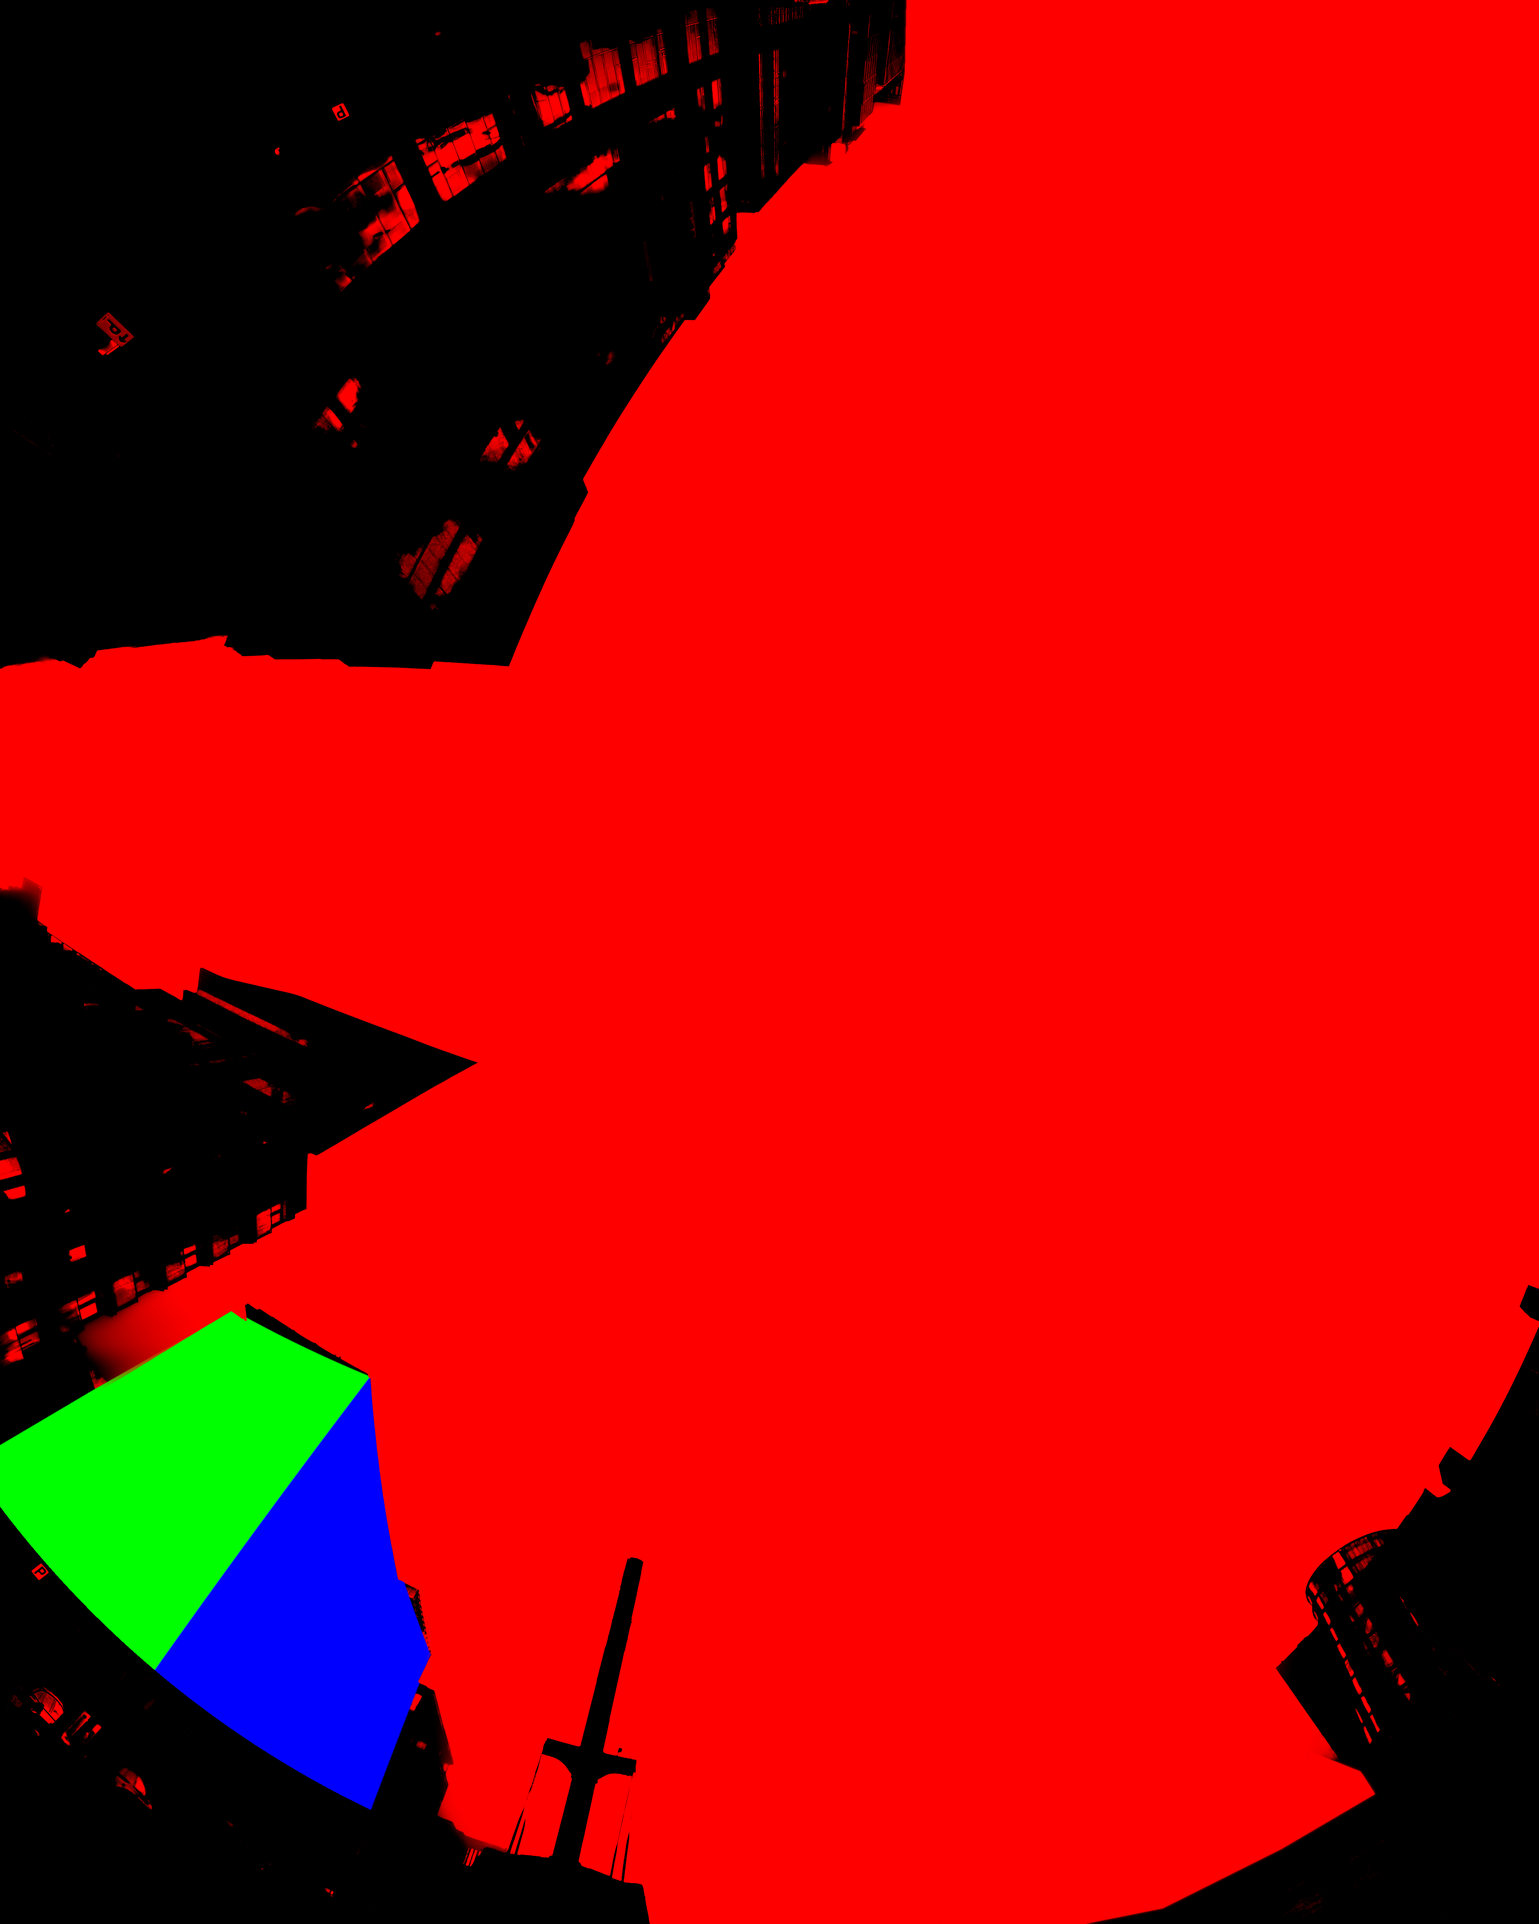
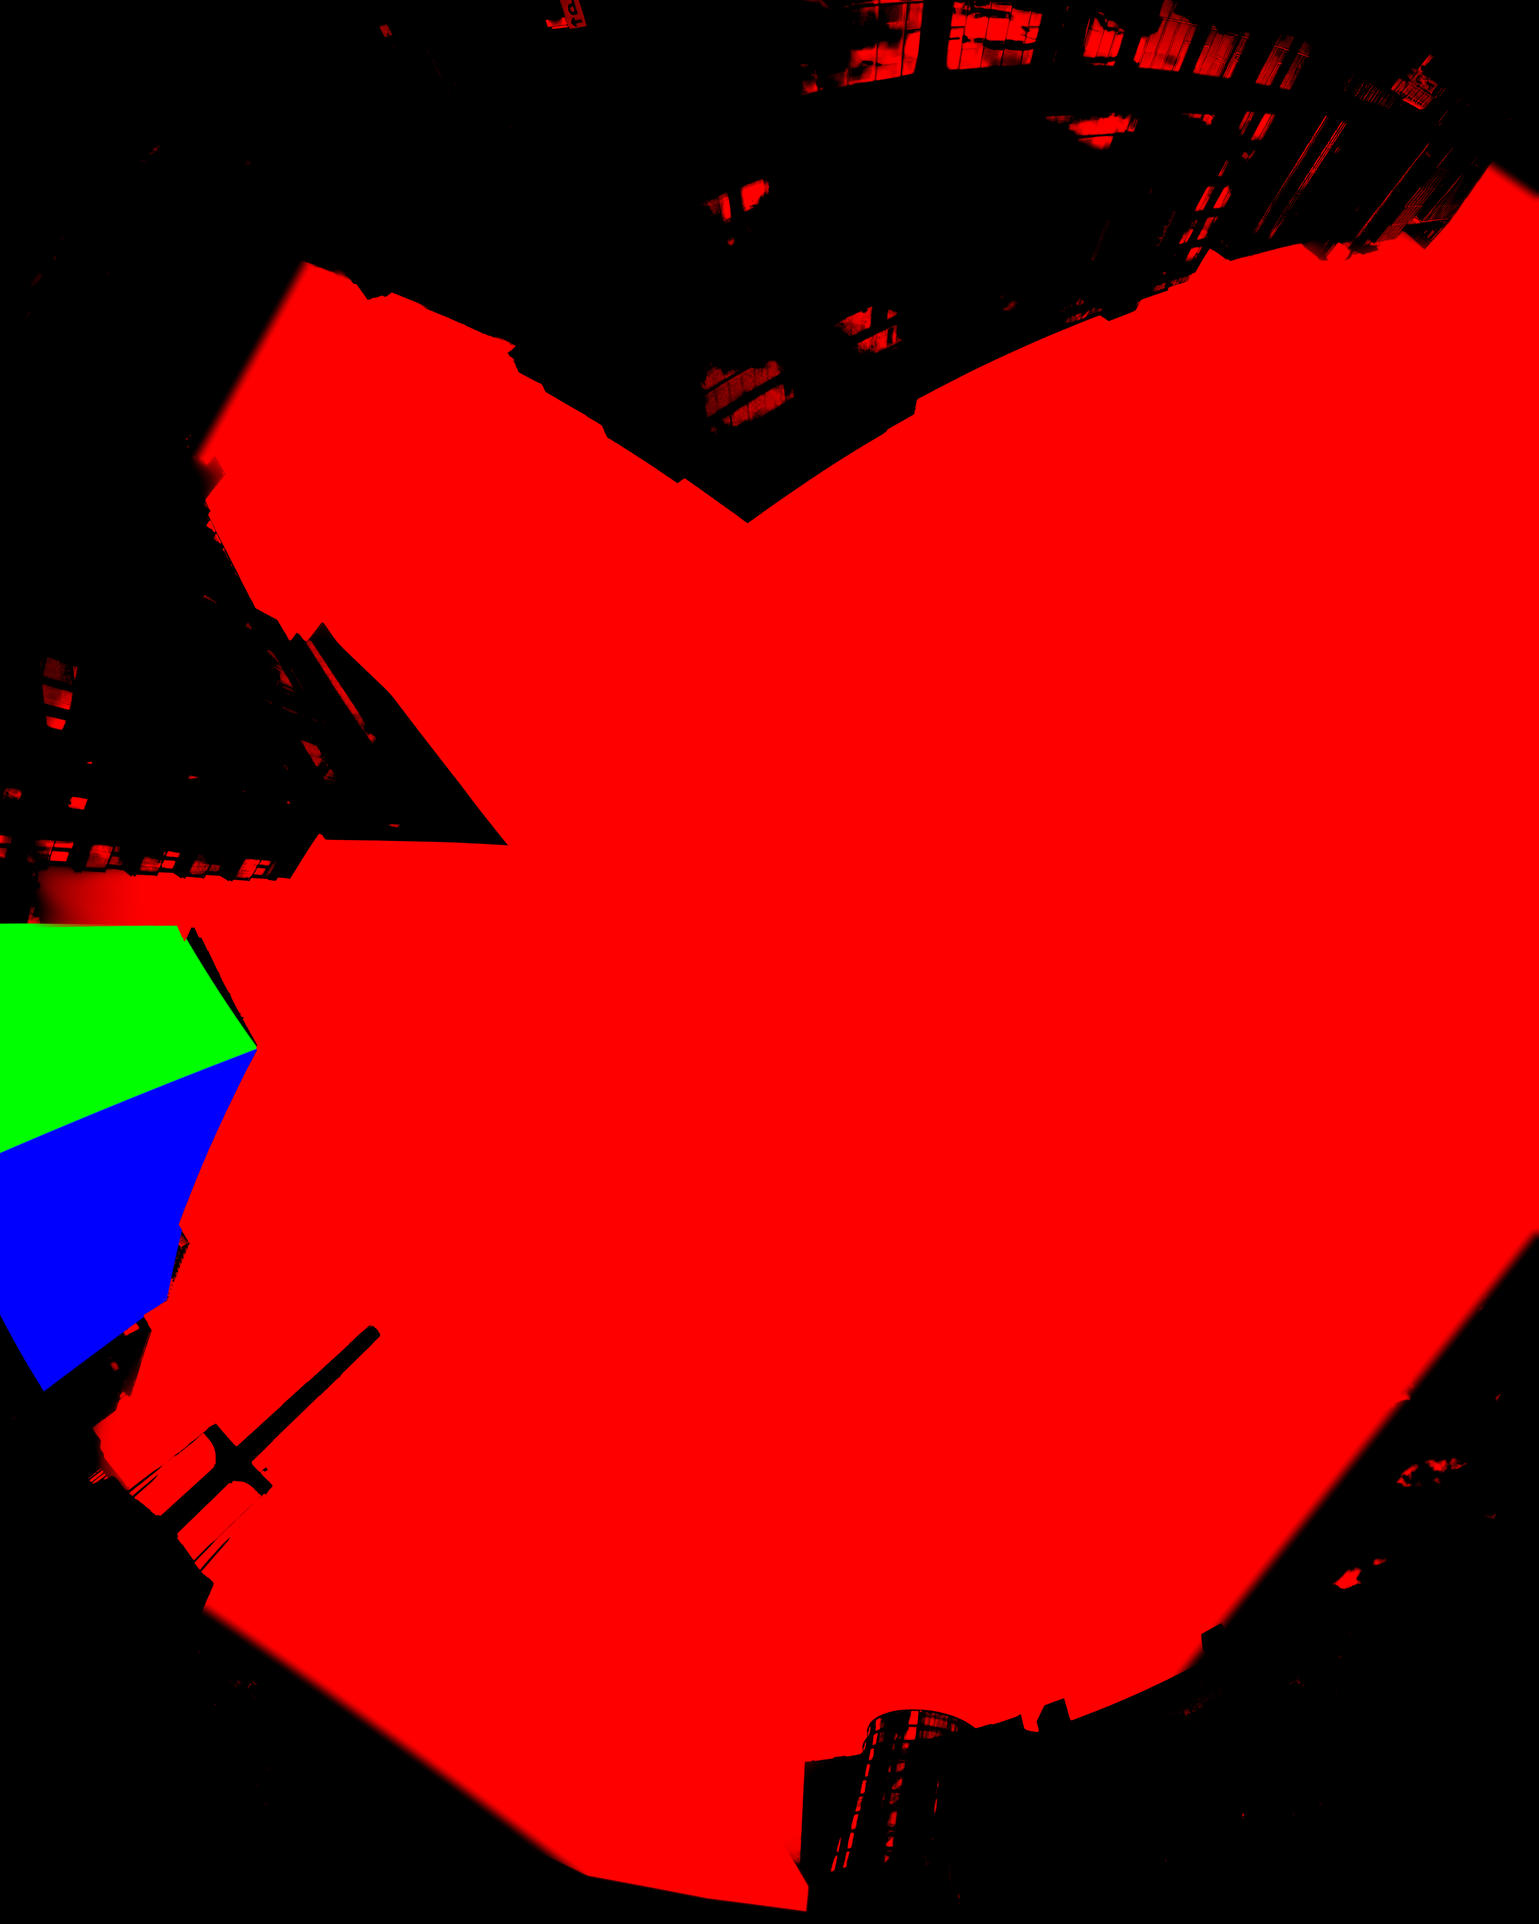
Lab: climb polariser round 1
Claude-Session: https://claude.ai/code/session_01RqENhngNCzDFmJWDZueXGV

diff --git a/src/app/lab/polariser/polariserEngine.js b/src/app/lab/polariser/polariserEngine.js
@@ -21,17 +21,18 @@ import { createFilm, FILM_PRESETS } from "../_kit/film";
 // HDRI at 16k, its native maximum (linear, unclipped; sun at az 38°, alt
 // 28.8°, found from its brightest point and checked against the time and
 // place of capture), 2x2 supersampled to 3840x4800 so the print always
-// downsamples it: a worm's-eye view 89° up, a degree off the zenith, rolled
-// so the towers wrap the frame: the big apartment block leans in across the
-// top left, the pointed tower from the left, the glass block from the bottom
-// left, the red mast stands up from the foot of the print and a second glass
-// block comes in from the bottom right, and the dark band 90° from the sun
-// arcs across the open sky in the middle of that canyon. The roll keeps the
-// quay's chevron hoarding off the print, and the orphaned fragments at the
-// edges (the construction block and red tower crane top right, lamp arms, the
-// far quay's office row) are filled with the plate's own sky
-// (tools/depth/bakes/polariser/clean.py), so each edge carries one whole
-// tower or open sky and the mast is the print's only warm colour.
+// downsamples it, then turned (tools/depth/bakes/polariser/turn.py) to a
+// worm's-eye view 84° up, six degrees off the zenith toward the lightship,
+// rolled so the towers wall three sides of the print: the big apartment block
+// leans in face-on across the whole top, the pointed tower and the glass
+// block come in from the left, the red mast stands up from the bottom left,
+// and the convention centre's glass drum and the far quay close the foot.
+// The dark band 90° from the sun arcs diagonally through the open sky those
+// walls leave, from the mast toward the top right. The orphaned fragments
+// the first framing had at its edges (the construction block and red tower
+// crane, lamp arms) are filled with the plate's own sky
+// (tools/depth/bakes/polariser/clean.py), so the mast is the print's only
+// strong warm colour.
 // Each pixel's view direction is rebuilt from the camera through the same
 // projection, so γ is exact.
 //
@@ -41,11 +42,11 @@ import { createFilm, FILM_PRESETS } from "../_kit/film";
 const PLATE = "/lab/polariser/plate.jpg";
 const AUX = "/lab/polariser/aux.png";
 
-// Camera the plate was rendered with (tools/depth/bakes/polariser/plate.py):
+// Camera of the plate (plate.py renders at 17, 89, 119; turn.py re-aims it):
 // stereographic, so a plane point p = 2 d⊥ / (1 + d·f), with the plate's
 // horizontal edge at hfov / 2 from the axis. The 4:5 print crops 92% of it,
 // a 140° horizontal field on the page.
-const CAM = { yaw: 17, pitch: 89, roll: 119, hfov: 149.09834806856665, aspect: 4800 / 3840 };
+const CAM = { yaw: 120, pitch: 84, roll: 50, hfov: 149.09834806856665, aspect: 4800 / 3840 };
 // The print crops this share of the plate.
 const CROP = 0.92;
 // Mip bias on the plate and aux lookups. The print minifies the plate 1.6 to
@@ -62,7 +63,7 @@ const K = 0.6;
 // The filter angle that deepens this frame most (mean sky transmission is
 // lowest there, tools/depth/bakes/polariser/hero.py); the hero still and the
 // end of the reveal.
-const HERO = 0.05;
+const HERO = 0.257;
 // Effective maximum degree of polarisation. A clean Rayleigh sky reaches about
 // 0.75, but a March cumulus sky is multiply scattered off bright cloud and a
 // real circular polariser does not extinguish fully, so the band 90° from the
@@ -74,6 +75,17 @@ const P_MAX = 0.55;
 // the deepest frame in cobalt; its green is held back a touch so the washed
 // angle stays cerulean, not electric cyan.
 const SKY_DYE = [0.03 * 2, 0.37 * 2, 2];
+// Film does not hold a clear sky at full chroma: the dye clouds bleed and the
+// base fog greys it. A share of the dyed blue's luminance comes back as grey,
+// lifting the band toward a soft grey-cobalt instead of a poster blue.
+const SKY_GREY = 0.15;
+// Halation: a thin warm ring on the dark side of every edge against bright
+// sky (the mast, the tower outlines), the light that went through the
+// emulsion and came back off the base. It is measured in print pixels, so it
+// stays thin whatever the screen.
+const HALO = 1.2;
+const HALO_PX = 4;
+const HALO_TINT = [1.0, 0.42, 0.16];
 const WB = [1.1, 0.97, 0.97];
 // The print: 0.9 stops over the plate's old exposure, then a log-logistic
 // negative-to-print curve (contrast n, half-density exposure s, in plate units
@@ -138,6 +150,11 @@ uniform float uPmax;
 uniform float uExpo;
 uniform float uLinearOut;
 uniform vec3 uSkyDye;
+uniform float uSkyGrey;
+uniform float uHaloLod; // mip level about half HALO_PX print px wide
+uniform vec2 uHaloStep; // HALO_PX print px in plate uv
+uniform float uHalo;
+uniform vec3 uHaloTint;
 uniform vec3 uWB;
 uniform vec2 uPrint;     // print curve: contrast n, half-density exposure s
 uniform float uVignette; // lens cos^4 falloff, before the emulsion
@@ -210,7 +227,39 @@ void main() {
   // The Rayleigh part is re-dyed toward the cobalt a Fuji negative gives a
   // clear sky; cloud and everything neutral keep their own colour.
   float A = clamp((0.85 * C.b - C.r) / 0.56, 0.0, C.b) * aux.r;
-  vec3 Cout = C - A * vec3(0.29, 0.58, 1.0) + A * uSkyDye * (1.0 + P * cos(2.0 * (uPhi - psi)));
+  vec3 dyed = A * uSkyDye * (1.0 + P * cos(2.0 * (uPhi - psi)));
+  dyed = mix(dyed, vec3(dot(dyed, LUMA)), uSkyGrey);
+  vec3 Cout = C - A * vec3(0.29, 0.58, 1.0) + dyed;
+
+  // Halation: the surround's light, a few print pixels wide, where it is
+  // brighter than the pixel itself (the dark side of an edge against sky).
+  // Light reaches the base mostly through the red-sensitive layer, so the
+  // spill is read on red: the sunlit red mast halates onto the sky beside it
+  // as well as the bright sky onto the tower edges.
+  // Eight taps on a ring HALO_PX print px out, each a mip about half that
+  // wide, and a ring at twice the radius: a smooth surround, no mip blocks.
+  vec3 near = vec3(0.0);
+  vec3 wide = vec3(0.0);
+  for (int i = 0; i < 8; i++) {
+    float t = float(i) * 0.785398 + 0.39;
+    vec2 o = vec2(cos(t), sin(t)) * uHaloStep;
+    near += decode(textureLod(uPlate, puv + o, uHaloLod).rgb);
+    wide += decode(textureLod(uPlate, puv + 2.0 * o, uHaloLod + 1.0).rgb);
+  }
+  near *= 0.125;
+  wide *= 0.125;
+  vec3 sur = 0.6 * near + 0.4 * wide;
+  float spill = max(sur.r - C.r, 0.0);
+  // Mostly on the dark side of the edge (the towers), a little over it onto
+  // the sky, where the ring shows as a warm seam.
+  float halo = min(spill, 3.0) * (1.0 - 0.7 * aux.r);
+  // The red mast is the one strongly red source in the frame: its own red
+  // excess spreads out over the sky round it as a warm glow.
+  // Only off the red itself, so the hull's own texture does not speckle.
+  float exSur = max(sur.r - sur.b, 0.0);
+  float exOwn = max(C.r - C.b, 0.0);
+  halo += 12.0 * exSur * (1.0 - smoothstep(0.0, 0.5, exOwn / max(exSur, 1e-3)));
+  Cout += uHaloTint * uHalo * halo;
 
   // Glass: the reflected share of the pixel, partially s-polarised.
   vec2 ga = glass(d, uNA);
@@ -578,6 +627,13 @@ export async function createPolariser(host, { embedded = false } = {}) {
     gl.uniform3fv(u.uSunlit, SUNLIT);
     gl.uniform1f(u.uLodBias, LOD_BIAS);
     gl.uniform3fv(u.uSkyDye, SKY_DYE);
+    gl.uniform1f(u.uSkyGrey, SKY_GREY);
+    // Plate px per print px, then the mip a HALO_PX-wide box sits on.
+    const perPx = (sx * plateImg.naturalWidth) / L.pw;
+    gl.uniform1f(u.uHaloLod, Math.max(0, Math.log2(Math.max(1, perPx * HALO_PX * 0.5))));
+    gl.uniform2f(u.uHaloStep, (sx / L.pw) * HALO_PX, (sy / L.ph) * HALO_PX);
+    gl.uniform1f(u.uHalo, HALO);
+    gl.uniform3fv(u.uHaloTint, HALO_TINT);
     gl.uniform3fv(u.uWB, WB);
     gl.uniform1f(u.uLinearOut, floatOk && sceneT.ok ? 1 : 0);
     gl.bindFramebuffer(gl.FRAMEBUFFER, sceneT.fbo);
@@ -601,11 +657,11 @@ export async function createPolariser(host, { embedded = false } = {}) {
         shoulder: 1,
         blueDepth: 0.25,
         highlightTint: [1, 0.99, 0.97],
-        saturation: 1.12,
+        saturation: 1.05,
         halation: 0.32,
-        halationThreshold: 0.8,
+        halationThreshold: 0.62,
         bloom: 0.1,
-        softness: 0.45,
+        softness: 0.6,
         toe: 0.04,
         grain: 0.32,
         vignette: 0,

diff --git a/tools/depth/bakes/polariser/turn.py b/tools/depth/bakes/polariser/turn.py
@@ -1,0 +1,98 @@
+# Re-aim the worm's-eye plate without a fresh 16k bake (run from a scratch dir):
+#   python3 turn.py YAW PITCH ROLL old_plate.jpg old_aux.png out_dir [HDR]
+# Each new plate pixel's view direction is looked up in the old, cleaned
+# stereographic plate (17, 89, 119; clean.py's fills and the measured glass
+# faces come with it), Lanczos-4 in the plate's own encoding. The new frame
+# turns the old one's corners, so a rim of directions the old plate never held
+# (the far corners, below about 15 deg altitude) is rendered from the HDRI
+# instead (the 8k is enough there: the stereographic rim needs about 20 px/deg
+# on the print and the 8k gives 22), feathered over 40 px into the old plate
+# and scaled per channel to the old plate's level on that seam.
+# That rim is quay, river wall and far-quay buildings with a sliver of hazy
+# sky near the horizon, so its sky channel is the plate's blue guard
+# (assets.py) alone; its glass channels are zero (both measured faces lie well
+# inside the old plate).
+import os, sys, json
+import numpy as np, cv2
+from PIL import Image
+sys.path.insert(0, os.path.dirname(os.path.abspath(__file__)))
+from cam import basis, dirs_stereo, sample, load
+
+YAW, PITCH, ROLL = map(float, sys.argv[1:4])
+OLDP, OLDA, OUT = sys.argv[4:7]
+HDR = sys.argv[7] if len(sys.argv) > 7 else os.environ.get('HDR', '/tmp/claude-0/dl-polariser/docklands_01_8k.hdr')
+OLD = (17, 89, 119)
+F = 149.09834806856665
+W, H = 3840, 4800
+K = 0.6
+X = 2 * np.tan(np.radians(F) / 4)
+os.makedirs(OUT, exist_ok=True)
+
+old = np.asarray(Image.open(OLDP).convert('RGB'))
+oaux = np.asarray(Image.open(OLDA).convert('RGB'))
+fo, Ro, Uo = basis(*OLD)
+d = dirs_stereo(W, H, YAW, PITCH, F, ROLL).astype(np.float32)
+k = 2 / (1 + d @ fo)
+u = ((d @ Ro) * k / X + 1) / 2
+v = (1 - (d @ Uo) * k / (X * H / W)) / 2
+cov = (u > 0.001) & (u < 0.999) & (v > 0.001) & (v < 0.999)
+print('old plate covers', round(float(cov.mean()) * 100, 2), '%')
+mu = (u * W - 0.5).astype(np.float32)
+mv = (v * H - 0.5).astype(np.float32)
+P = cv2.remap(old, mu, mv, cv2.INTER_LANCZOS4, borderMode=cv2.BORDER_REPLICATE).astype(np.float32) / 255
+A = cv2.remap(oaux, mu, mv, cv2.INTER_LINEAR, borderMode=cv2.BORDER_REPLICATE).astype(np.float32) / 255
+del old, oaux
+
+feather = 40
+dist = cv2.distanceTransform(cov.astype(np.uint8), cv2.DIST_L2, 5)
+wold = np.clip(dist / feather, 0, 1)
+wold = wold * wold * (3 - 2 * wold)
+need = wold < 1
+if need.any():
+    eq = load(HDR)
+    ys, xs = np.nonzero(need)
+    y0, y1, x0, x1 = ys.min(), ys.max() + 1, xs.min(), xs.max() + 1
+    # 2x2 supersampled lookups, as plate.py
+    SS = 2
+    f, R, U = basis(YAW, PITCH, ROLL)
+    xs2 = ((np.arange(x0 * SS, x1 * SS) + 0.5) / (W * SS) * 2 - 1) * X
+    Hn = np.zeros((y1 - y0, x1 - x0, 3), np.float32)
+    for r0 in range(y0, y1, 200):
+        r1 = min(y1, r0 + 200)
+        ys2 = (1 - (np.arange(r0 * SS, r1 * SS) + 0.5) / (H * SS) * 2) * X * H / W
+        xx, yy = np.meshgrid(xs2, ys2)
+        r2 = xx * xx + yy * yy
+        a = 4 / (4 + r2)
+        dd = (a * xx)[..., None] * R + (a * yy)[..., None] * U + ((4 - r2) / (4 + r2))[..., None] * f
+        dd = (dd / np.linalg.norm(dd, axis=-1, keepdims=True)).astype(np.float32)
+        s = np.maximum(sample(eq, dd), 0)
+        Hn[r0 - y0:r1 - y0] = s.reshape(r1 - r0, SS, x1 - x0, SS, 3).mean((1, 3))
+    del eq
+    x = Hn * K
+    enc = np.clip(x / (1 + x), 0, 1) ** (1 / 2.2)
+    # low-frequency match on the overlap band (old plate is the 16k)
+    band = (wold[y0:y1, x0:x1] > 0) & (wold[y0:y1, x0:x1] < 1)
+    Pw = P[y0:y1, x0:x1]
+    if band.any():
+        ratio = np.median(Pw[band], 0) / np.maximum(np.median(enc[band], 0), 1e-3)
+        print('hdri/old encoded ratio on the seam', ratio)
+        enc = np.clip(enc * ratio, 0, 1)
+    w = wold[y0:y1, x0:x1, None]
+    P[y0:y1, x0:x1] = Pw * w + enc * (1 - w)
+    # sky in the new rim
+    lin = Hn
+    bl = (lin[..., 2] - lin[..., 0]) / np.maximum(lin[..., 2], 1e-4)
+    blue = np.clip((bl - 0.4) / 0.15, 0, 1) * np.clip((lin[..., 2] * K - 0.08) / 0.1, 0, 1)
+    sky = blue
+    a2 = A[y0:y1, x0:x1]
+    a2[..., 0] = a2[..., 0] * w[..., 0] + sky * (1 - w[..., 0])
+    a2[..., 1] *= w[..., 0]
+    a2[..., 2] *= w[..., 0]
+    A[y0:y1, x0:x1] = a2
+
+Image.fromarray(np.clip(np.round(P * 255), 0, 255).astype(np.uint8)).save(os.path.join(OUT, 'plate.jpg'), quality=92, subsampling=0, optimize=True)
+Image.fromarray(np.clip(np.round(A * 255), 0, 255).astype(np.uint8)).save(os.path.join(OUT, 'aux.png'), optimize=True)
+np.save(os.path.join(OUT, 'cov.npy'), cov[::4, ::4])
+json.dump({'yaw': YAW, 'pitch': PITCH, 'roll': ROLL, 'hfov': F, 'W': W, 'H': H, 'from': OLD}, open(os.path.join(OUT, 'turn.json'), 'w'))
+Image.fromarray(np.clip(np.round(P[::8, ::8] * 255), 0, 255).astype(np.uint8)).save(os.path.join(OUT, 'prev.jpg'))
+Image.fromarray(np.clip(np.round(A[::8, ::8] * 255), 0, 255).astype(np.uint8)).save(os.path.join(OUT, 'aux_prev.png'))

diff --git a/tools/depth/bakes/polariser/hero.py b/tools/depth/bakes/polariser/hero.py
@@ -1,12 +1,26 @@
-import sys, json, numpy as np
+# The filter angle that deepens the frame most (engine HERO).
+#   python3 hero.py                                  (after plate.py: plate.npy, dirs.npy, out/aux.png)
+#   python3 hero.py plate.jpg aux.png YAW PITCH ROLL (after turn.py: the encoded plate)
+import os, sys, json, numpy as np
 from PIL import Image
-sys.path.insert(0, '.')
-from cam import basis
-J = json.load(open('plate.json'))
+sys.path.insert(0, os.path.dirname(os.path.abspath(__file__)))
+from cam import basis, dirs_stereo
+SUN = (38.12255859375, 28.762207031249996)
+HFOV = 149.09834806856665
+if len(sys.argv) > 5:
+    yaw, pitch, roll = map(float, sys.argv[3:6])
+    enc = np.asarray(Image.open(sys.argv[1]).convert('RGB'))[::4, ::4].astype(np.float64) / 255
+    y = enc ** 2.2
+    C = y / np.maximum(1 - y, 0.004) / 0.6
+    sky = np.asarray(Image.open(sys.argv[2]))[::4, ::4, 0] / 255.0
+    d = dirs_stereo(960, 1200, yaw, pitch, HFOV, roll).astype(np.float64)
+    J = {'yaw': yaw, 'pitch': pitch, 'roll': roll, 'sun_lat': SUN[1], 'sun_lon': SUN[0]}
+else:
+    J = json.load(open('plate.json'))
+    d = np.load('dirs.npy')[::4, ::4].astype(np.float64)
+    C = np.load('plate.npy')[::4, ::4].astype(np.float64)
+    sky = np.asarray(Image.open('out/aux.png'))[::4, ::4, 0] / 255.0
 f, R, U = basis(J['yaw'], J['pitch'], J['roll'])
-d = np.load('dirs.npy')[::4, ::4].astype(np.float64)
-C = np.load('plate.npy')[::4, ::4].astype(np.float64)
-sky = np.asarray(Image.open('out/aux.png'))[::4, ::4, 0] / 255.0
 la, lo = np.radians(J['sun_lat']), np.radians(J['sun_lon'])
 S = np.array([np.cos(la) * np.sin(lo), np.sin(la), np.cos(la) * np.cos(lo)])
 def proj(v):
@@ -26,5 +40,6 @@ for q in np.linspace(0, 1, 721):
     phi = q * np.pi
     best.append(((A * (1 + P * np.cos(2 * (phi - psi)))).sum() / A.sum(), q))
 best.sort()
-print('deepest', best[0], 'washed', best[-1], 'at 0.0833', [b for b in best if abs(b[1] - 0.0833) < 0.001])
+print('deepest', best[0], 'washed', best[-1], 'at 0.05', [b for b in best if abs(b[1] - 0.05) < 0.001])
 print('P centre', P[P.shape[0] // 2, P.shape[1] // 2], 'P max', P.max(), 'P mean', P.mean())
+print('open sky share of the print', round(float((sky[ys, xs] > 0.5).mean()), 3))

diff --git a/tools/depth/bakes/polariser/plate.py b/tools/depth/bakes/polariser/plate.py
@@ -1,6 +1,12 @@
 # Plate order (run from a scratch dir, with this dir on PYTHONPATH):
 #   plate.py 17 89 119 140 -> depth_hr.py on out/plate.jpg -> reproj.py -> assets.py
 #   -> clean.py out/plate.jpg out/aux.png (frame-edge fragments to sky) -> hero.py
+#   -> turn.py 120 84 50 out/plate.jpg out/aux.png turned/ (re-aims the cleaned
+#      plate: 84 deg up, six degrees off the zenith toward the lightship, rolled
+#      so the apartment block walls the top, the pointed tower and glass block
+#      the left, and the mast, drum and far quay the foot; the open sky and the
+#      dark band sit inside those three walls)
+#   -> hero.py turned/plate.jpg turned/aux.png 120 84 50 (engine HERO)
 # aux_old.png for reproj.py: git show 39c5ed8:public/lab/polariser/aux.png > aux_old.png
 # HDRI: Poly Haven docklands_01 at 16k, its native maximum (the 8k gave the
 # plate only about 11 px/deg at the frame centre, so facades and window grids
